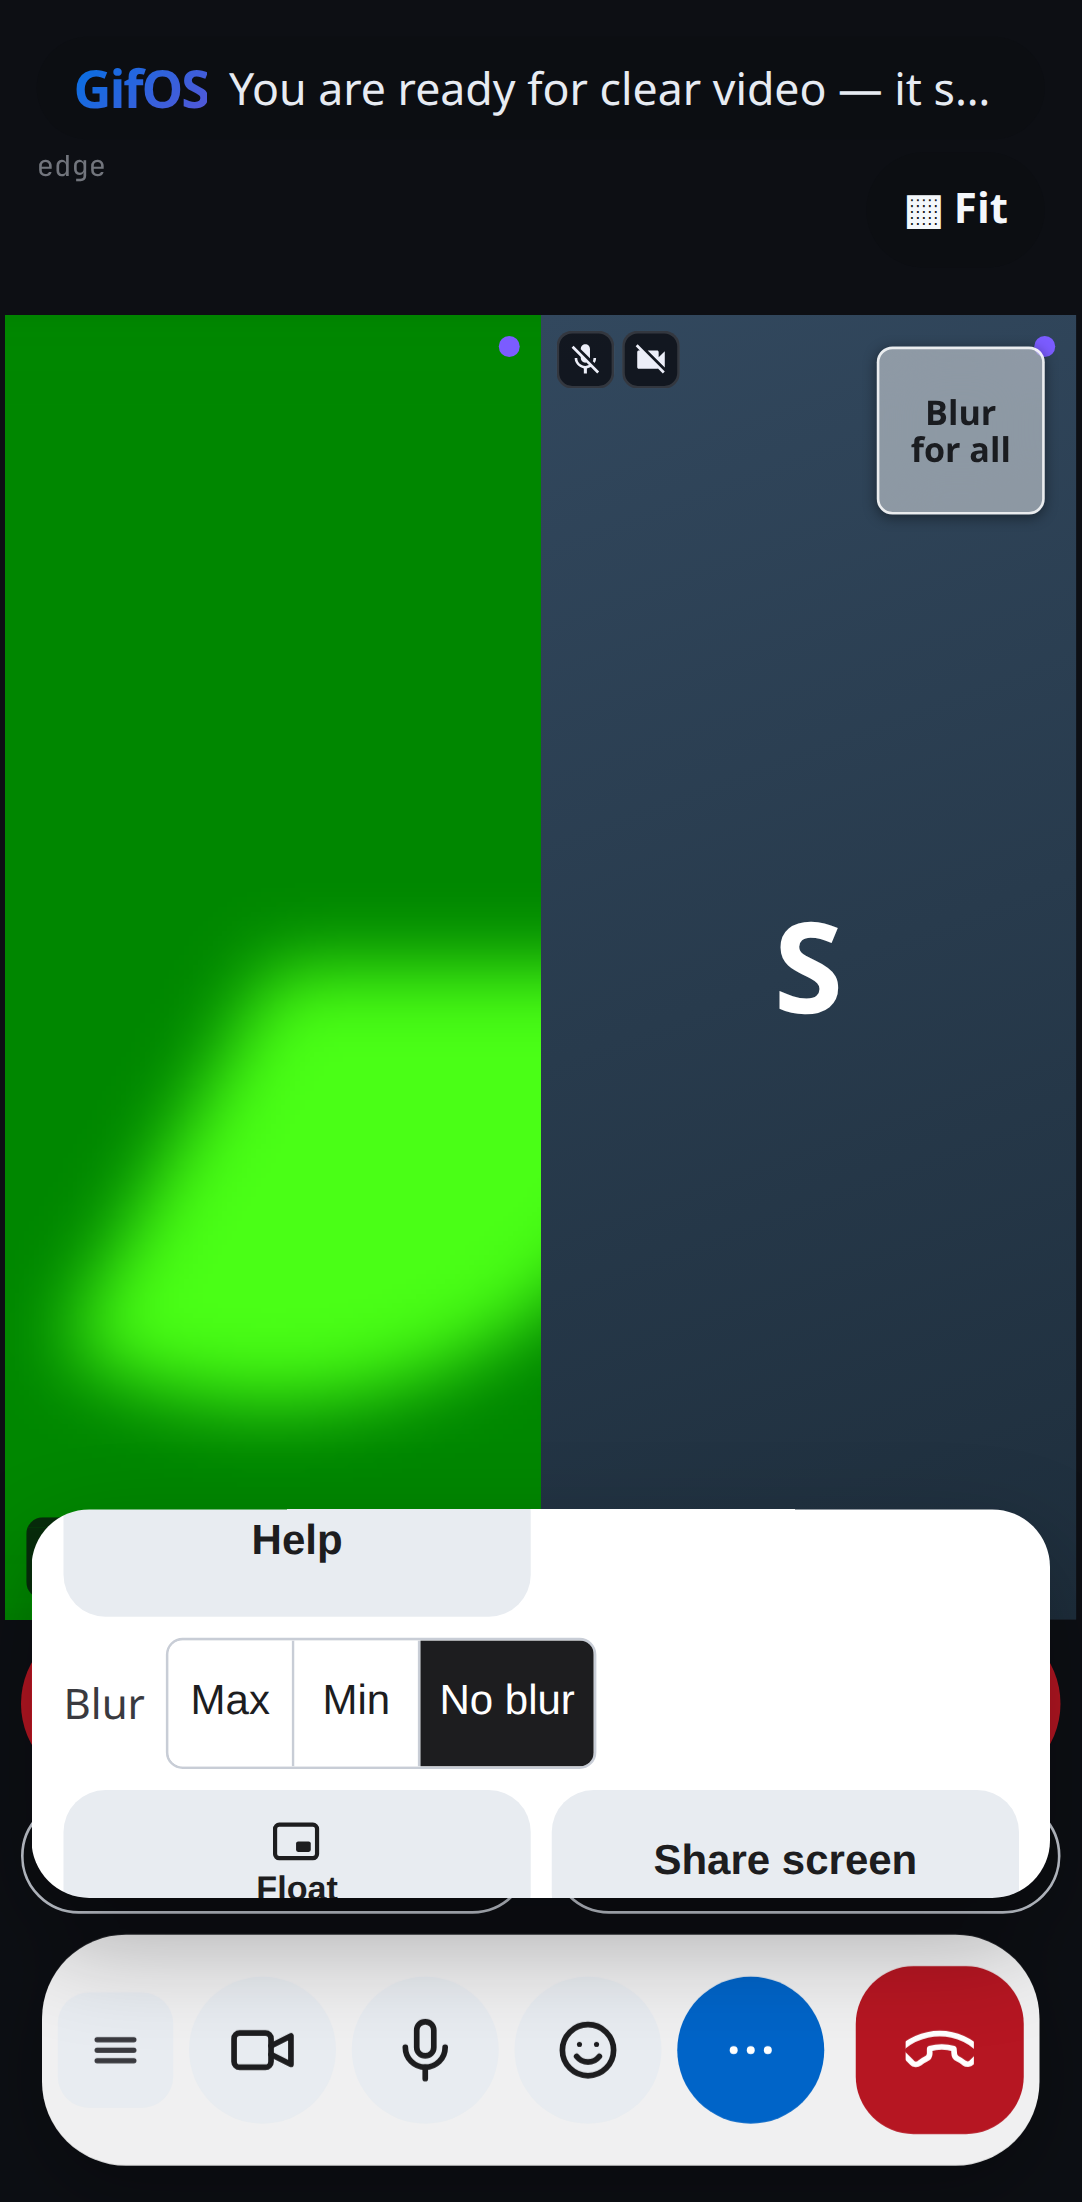
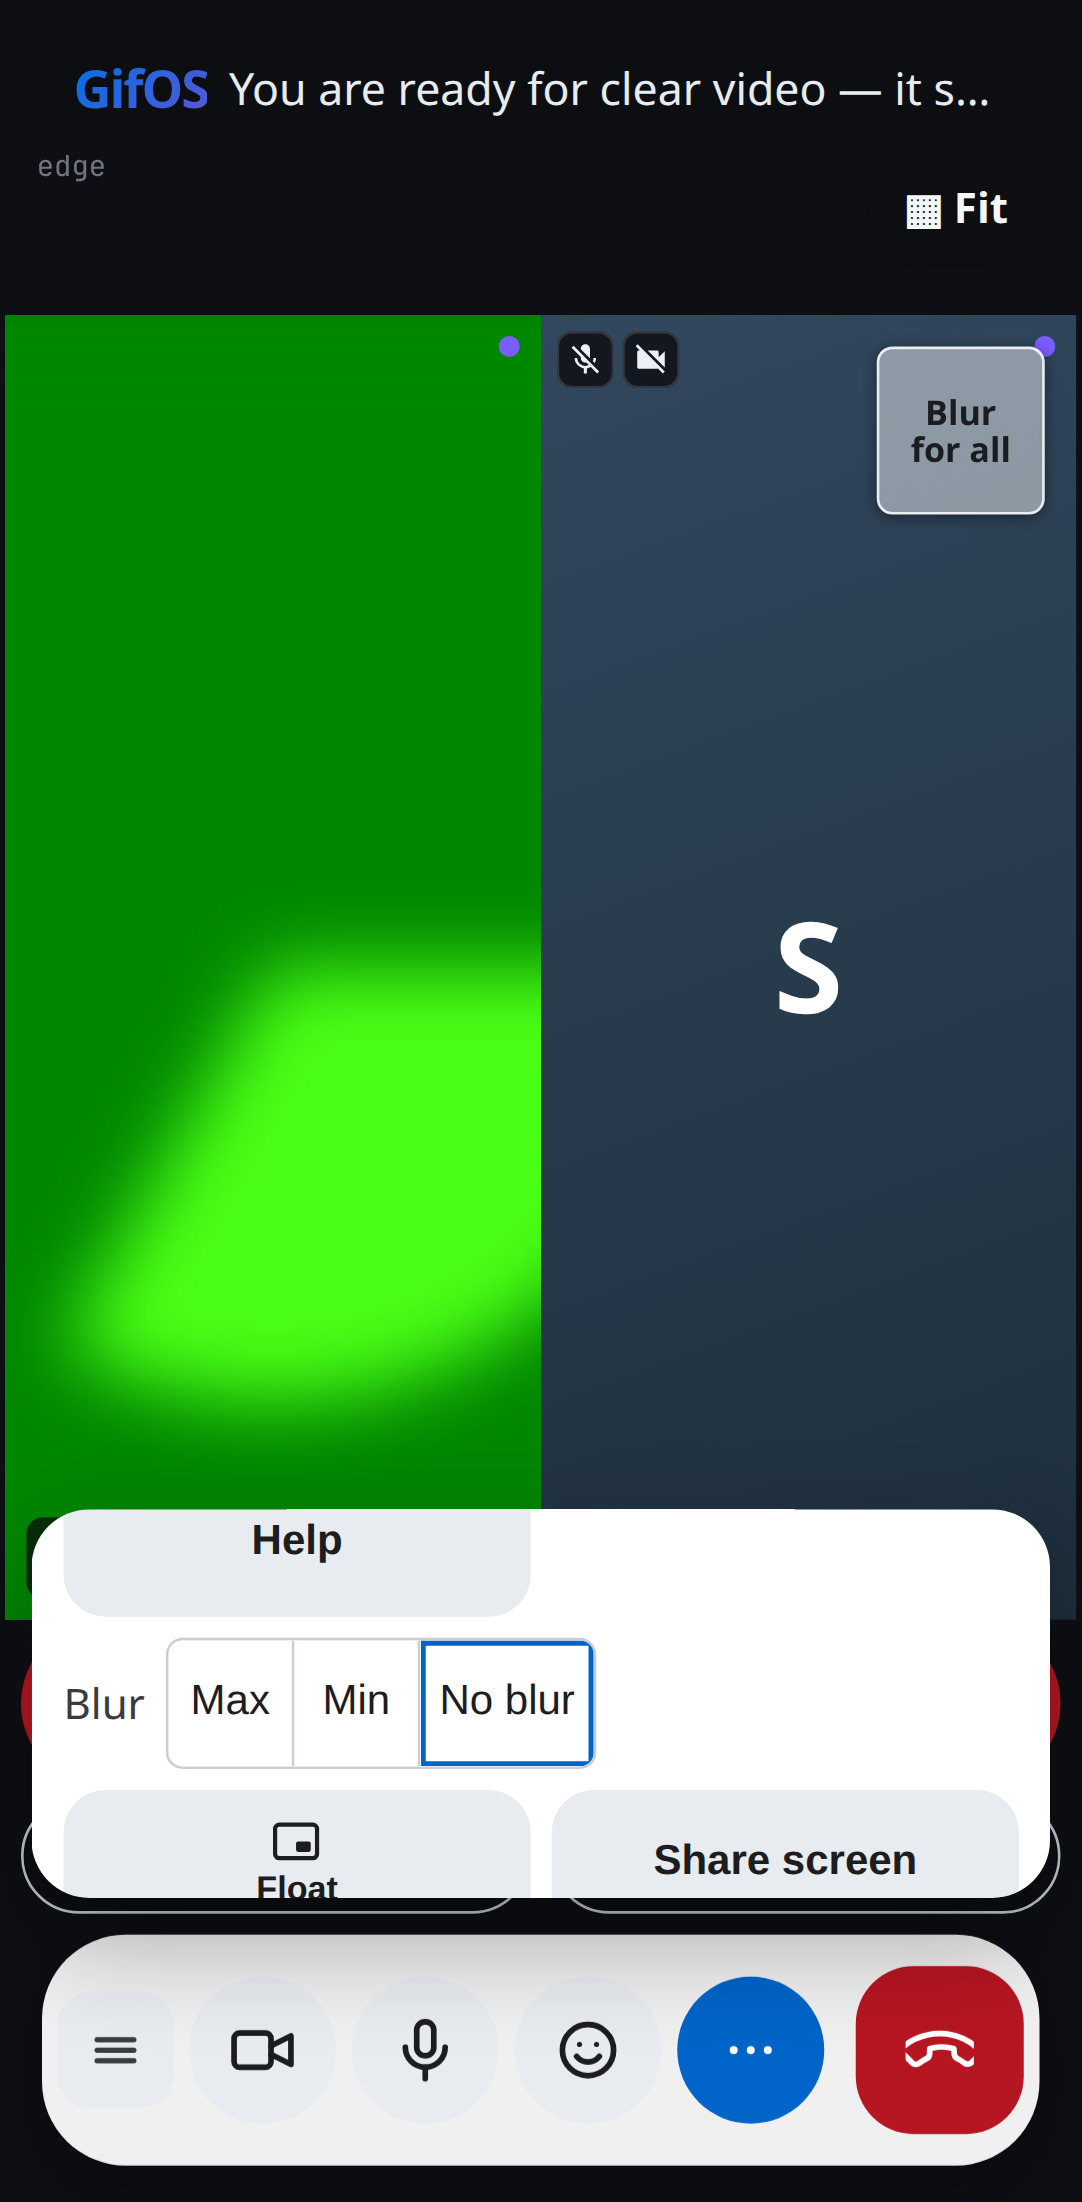
Meet: show No blur as pending until the minute holdover ends.
An away peer who has not consented stays in the roster for up to 60s, so the feed stays at Min while the header already says you are ready. No blur stays chosen, with a white fill and a blue ring, until that holdover drops and clear video starts on its own.

Changed region(s): [[0.366, 0.7411, 0.549, 0.8029]]

diff --git a/test/mobile/blur-none-delay.js b/test/mobile/blur-none-delay.js
@@ -1,0 +1,119 @@
+/*
+ * No blur looks finished while a pocketed peer still holds the room at Min.
+ * That hold lasts up to a minute (the away holdover). The header already
+ * says you are ready. After the minute, clear video starts with no second tap.
+ *
+ * Gate: NODE_PATH=/tmp/qa-pw/node_modules node test/mobile/blur-none-delay.js
+ */
+const fs = require('fs');
+const path = require('path');
+const { chromium, devices } = require('playwright');
+
+const BASE = process.env.MEET_BASE || 'http://127.0.0.1:8765';
+const SHOTS = path.join(__dirname, '..', '..', 'qa', 'mobile', 'shots');
+const ROOM = 'clear-wait';
+
+function stamp(page, ageMs) {
+  return page.evaluate((age) => {
+    window.__gifosVideo._ghostStatus('peer-sam', age, { away: true, blur: 1, camOff: false });
+  }, ageMs);
+}
+
+(async () => {
+  fs.mkdirSync(SHOTS, { recursive: true });
+  const browser = await chromium.launch({
+    headless: true,
+    args: ['--use-fake-ui-for-media-stream', '--use-fake-device-for-media-stream'],
+  });
+  const context = await browser.newContext(Object.assign({}, devices['Pixel 7'], { hasTouch: true }));
+  await context.addInitScript((room) => {
+    try {
+      localStorage.setItem('gifos_name', 'Nathan');
+      localStorage.setItem('gifos_vpw_' + room, 'sunday');
+      localStorage.setItem('gifos_vpwat_' + room, String(Date.now()));
+    } catch (e) {}
+  }, ROOM);
+  const page = await context.newPage();
+  await page.goto(BASE + '/run.html#v=' + ROOM, { waitUntil: 'domcontentloaded', timeout: 20000 });
+  await page.waitForSelector('#bartoggle', { timeout: 15000 });
+  const skip = page.locator('#nmok');
+  if (await skip.count()) await skip.tap().catch(() => {});
+  await page.waitForFunction(() => {
+    const api = window.__gifosVideo;
+    return api && api.pwState && api.pwState().pw === 'sunday';
+  }, { timeout: 8000 });
+  await page.evaluate(() => window.__gifosVideo.presentPeers([{ id: 'peer-sam', name: 'Sam' }]));
+  await stamp(page, 30000);
+  await page.waitForFunction(() => {
+    const api = window.__gifosVideo;
+    const dump = api.debugDump();
+    const sam = (dump.roster || []).some((row) => row && (row.peer === 'peer-sam' || row.name === 'Sam'));
+    return sam && dump.consent === false;
+  }, { timeout: 8000 });
+  const unmute = page.locator('#unmute');
+  if (await unmute.count() && await unmute.isVisible().catch(() => false)) await unmute.tap();
+  await page.locator('#cam').tap();
+  await page.waitForFunction(() => window.__gifosVideo.camOff() === false, { timeout: 8000 });
+  await stamp(page, 30000);
+  await page.locator('#bartoggle').tap();
+  await page.locator('#blur-min').scrollIntoViewIfNeeded();
+  await page.locator('#blur-min').tap();
+  await page.locator('#blur-none').scrollIntoViewIfNeeded();
+  await page.locator('#blur-none').tap();
+  await page.waitForTimeout(250);
+  const read = () => page.evaluate(() => {
+    const el = document.getElementById('blur-none');
+    const cs = getComputedStyle(el);
+    const api = window.__gifosVideo;
+    const dump = api.debugDump();
+    return {
+      sel: el.classList.contains('sel'),
+      wait: el.classList.contains('wait'),
+      pressed: el.getAttribute('aria-pressed'),
+      bg: cs.backgroundColor,
+      shadow: cs.boxShadow,
+      wish: api.myBlur(),
+      feed: api.blurClassOf('me'),
+      status: document.getElementById('status').textContent,
+      consent: dump.consent,
+      roster: (dump.roster || []).map((row) => row && row.peer),
+    };
+  });
+  const during = await read();
+  const shotDuring = (!during.wait) ? 'before-blur-wait-pixel-7.png' : 'after-blur-wait-pixel-7.png';
+  await page.screenshot({ path: path.join(SHOTS, shotDuring) });
+  if (during.wait) await page.locator('#blurseg').screenshot({ path: path.join(SHOTS, 'after-blur-wait-seg.png') });
+  await stamp(page, 61000);
+  await page.waitForFunction(() => {
+    const api = window.__gifosVideo;
+    const dump = api.debugDump();
+    const sam = (dump.roster || []).some((row) => row && (row.peer === 'peer-sam' || row.name === 'Sam'));
+    return !sam && api.blurClassOf('me') === 0;
+  }, { timeout: 8000 }).catch(() => {});
+  await page.waitForTimeout(400);
+  const later = await read();
+  if (later.feed === 0 && !later.wait && later.sel) {
+    await page.screenshot({ path: path.join(SHOTS, 'after-blur-clear-pixel-7.png') });
+    await page.locator('#blurseg').screenshot({ path: path.join(SHOTS, 'after-blur-clear-seg.png') });
+  }
+  const bad = [];
+  if (during.status.indexOf('ready for clear video') < 0) bad.push('header "' + during.status + '"');
+  if (during.wish !== 0) bad.push('choice ' + during.wish);
+  if (during.feed !== 1) bad.push('feed during the minute is ' + during.feed);
+  if (during.consent !== false) bad.push('room already consented during the holdover');
+  if (!during.wait) bad.push('No blur has no pending state while the header says ready and the feed is still Min (sel ' + during.sel + ')');
+  if (during.wait && during.bg !== 'rgb(255, 255, 255)') bad.push('pending No blur fill is ' + during.bg);
+  if (during.wait && during.shadow.indexOf('rgb(0, 100, 200)') < 0) bad.push('pending No blur has no blue ring (' + during.shadow + ')');
+  if (later.feed !== 0) bad.push('after the minute the feed is still ' + later.feed + ' roster ' + JSON.stringify(later.roster));
+  if (later.wait) bad.push('No blur stayed pending after the room cleared');
+  if (later.feed === 0 && !later.sel) bad.push('clear video started and No blur is not the selected choice');
+  if (later.feed === 0 && later.bg !== 'rgb(29, 29, 31)') bad.push('clear No blur fill is ' + later.bg);
+  await context.close();
+  await browser.close();
+  if (bad.length) {
+    console.error('FAIL ' + bad.join('; '));
+    console.error(JSON.stringify({ during: during, later: later }));
+    process.exit(1);
+  }
+  console.log('PASS blur none delay');
+})().catch((e) => { console.error(e); process.exit(1); });

diff --git a/run.html b/run.html
@@ -1512,6 +1512,11 @@ requestAnimationFrame(chk);setTimeout(show,1500);})();</script>
   .bar:not(.collapsed) .barmore .seg { min-height: 48px; min-width: 48px; color: #1d1d1f; background: #fff; }
   .bar:not(.collapsed) .barmore .seg.sel,
   .bar:not(.collapsed) .barmore .seg[aria-pressed="true"] { background: #1d1d1f; color: #fff; }
+  /* Chosen, but the room is still at Min. Not the solid "clear video is on" fill. */
+  .bar:not(.collapsed) .barmore .seg.wait,
+  .bar:not(.collapsed) .barmore .seg.wait[aria-pressed="true"] {
+    background: #fff; color: #1d1d1f; box-shadow: inset 0 0 0 2px #0064c8;
+  }
   .bar .barmore .blab { display: block; font-size: 13px; font-weight: 700; margin-top: 2px; line-height: 1.1; }
   .reacttray { position: absolute; z-index: 23; left: 50%; bottom: 122px; transform: translateX(-50%);
     display: flex; gap: 8px; background: rgba(255,255,255,.96); border-radius: 20px; padding: 10px;
@@ -9344,6 +9349,14 @@ requestAnimationFrame(chk);setTimeout(show,1500);})();</script>
       }
       for (const [pid] of statusOf) if (pid !== myId && stHold(pid) && notTomb(pid)) ids.add(pid);
       rosterIds = Array.from(ids);
+      // A pocketed phone blocks clear video for up to a minute, then drops
+      // out of this set. Repaint then, or No blur stays pending after the
+      // room has already gone clear.
+      const rosterSig = rosterIds.slice().sort().join('\n');
+      if (rosterSig !== renderFromOcc.rosterSig) {
+        renderFromOcc.rosterSig = rosterSig;
+        try { reactRoomState(); } catch (e) {}
+      }
       for (const pid of rosterIds) {
         // A peer carrying MY device id is a stale session of my own device —
         // never a real guest. Drop it instead of drawing a second "me" tile.
@@ -21350,16 +21363,30 @@ requestAnimationFrame(chk);setTimeout(show,1500);})();</script>
         const inCall = !(lob && lob.classList.contains('show'));
         showcamBtn.hidden = !inCall || muted || !myStatus.camOff;
       }
-      // The filled segment is the choice this person made. The feed can
-      // still be Min: a password room stays there until everyone is ready,
-      // and a moderator block stays on the pixels. Painting that feed level
-      // here snapped No blur back to Min the moment it was tapped, while the
-      // header said you were ready for clear video.
+      // The filled segment is the choice this person made. While a password
+      // room is still at Min (someone is not ready, including a pocketed
+      // phone held for up to a minute), No blur stays chosen but pending.
+      // Painting the feed level snapped it back to Min. Painting a solid
+      // selection made it look finished while the header said you were only
+      // ready. The holdover expiring is what used to make No blur "start
+      // working" with no second tap.
       const lvl = blurLevel(myStatus.blur);
+      let feed = lvl;
+      try {
+        if (typeof blurLevelFor === 'function') {
+          const eff = blurLevelFor('me');
+          if (typeof eff === 'number') feed = blurLevel(eff);
+        }
+      } catch (e) {}
+      const pending = lvl === 0 && feed > 0;
       for (const seg of blurSegs) {
         const segOn = +seg.dataset.blur === lvl;
-        seg.classList.toggle('sel', segOn);
+        const wait = pending && segOn;
+        seg.classList.toggle('wait', wait);
+        seg.classList.toggle('sel', segOn && !wait);
         seg.setAttribute('aria-pressed', segOn ? 'true' : 'false');
+        if (wait) seg.title = 'Chosen. Clear video shows when everyone here is ready.';
+        else if (seg.title === 'Chosen. Clear video shows when everyone here is ready.') seg.title = '';
       }
       paintShare();
     }
@@ -24624,7 +24651,17 @@ requestAnimationFrame(chk);setTimeout(show,1500);})();</script>
       // departure verdict to miss. Nothing in a 4-browser room can age an entry
       // past the holdover on demand, so hand the sweep exactly the shape it
       // exists for, plus a FRESH one it must leave alone.
-      _ghostStatus: (id, ageMs) => { const t = Date.now() - (ageMs | 0); statusOf.set(id, { muted: true, camOff: true, blur: 0, at: t, rx: t }); return statusOf.has(id); },
+      _ghostStatus: (id, ageMs, extra) => {
+        const t = Date.now() - (ageMs | 0);
+        const st = { muted: true, camOff: true, blur: 0, at: t, rx: t };
+        if (extra && typeof extra === 'object') {
+          if (extra.away) st.away = true;
+          if (typeof extra.blur === 'number') st.blur = extra.blur;
+          if (extra.camOff === false) st.camOff = false;
+        }
+        statusOf.set(id, st);
+        return statusOf.has(id);
+      },
       // SCALE FAULT INJECTION (scale audit V2/V3, test/browser/e2e-status-map.js):
       // stuff `statusOf` with N synthetic strangers, exactly as a room-wide
       // status flood at scale would. Nothing else is touched — the point is to

diff --git a/test/mobile/blur-none.js b/test/mobile/blur-none.js
@@ -76,11 +76,14 @@ const ROOM = 'clear-ready';
   await page.locator('#blur-none').tap();
   await page.waitForTimeout(200);
   const info = await page.evaluate(() => {
-    const on = (id) => document.getElementById(id).classList.contains('sel');
+    const el = (id) => document.getElementById(id);
+    const on = (id) => el(id).classList.contains('sel');
     const api = window.__gifosVideo;
+    const none = el('blur-none');
     return {
       min: on('blur-min'),
-      none: on('blur-none'),
+      none: none.classList.contains('sel') || none.classList.contains('wait'),
+      pending: none.classList.contains('wait'),
       max: on('blur-max'),
       wish: api.myBlur(),
       feed: api.blurClassOf('me'),
@@ -100,6 +103,7 @@ const ROOM = 'clear-ready';
   if (info.status.indexOf('ready for clear video') < 0) bad.push('header "' + info.status + '"');
   if (info.feed !== 1) bad.push('feed blur ' + info.feed + ' (room should stay Min until Sam is ready)');
   if (!info.none || info.min) bad.push('No blur did not stay selected (min ' + info.min + ', none ' + info.none + ')');
+  if (info.feed > 0 && !info.pending) bad.push('No blur looks finished while the feed is still Min');
   const shot = bad.length ? 'before-blur-none-pixel-7.png' : 'after-blur-none-pixel-7.png';
   await page.screenshot({ path: path.join(SHOTS, shot) });
   await context.close();

diff --git a/QUIRKS.md b/QUIRKS.md
@@ -339,13 +339,19 @@ Repro: `test/mobile/header-invite.js`. On a phone, alone, the header is the room
 
 Before: `qa/mobile/shots/before-header-invite-iphone-se.png`. After: `qa/mobile/shots/after-header-invite-iphone-se.png`.
 
-### 42. No blur snapped back to Min
+### 42. No blur snapped back to Min, then started on its own after a minute
 
 In a password meeting the header said "You are ready for clear video…" and Min stayed selected. The tap landed on No blur. The button was not disabled. The choice was saved as 0. The segment then painted the feed level, and the room rule keeps that feed at Min until everyone is ready, so the control jumped back to Min.
 
-Repro: `test/mobile/blur-none.js`. It failed (`No blur did not stay selected (min true, none false)`, feed blur 1, header "You are ready for clear video — it shows when everyone here is (camera on, No blur: 1 of 2)."), then passed. No blur stays selected. The feed stays Min until Sam is ready. Gate: `NODE_PATH=/tmp/qa-pw/node_modules node test/mobile/blur-none.js`.
+Repro: `test/mobile/blur-none.js`. It failed (`No blur did not stay selected (min true, none false)`, feed blur 1, header "You are ready for clear video — it shows when everyone here is (camera on, No blur: 1 of 2)."), then passed. The choice stays on No blur. The feed stays Min until the room is ready. Gate: `NODE_PATH=/tmp/qa-pw/node_modules node test/mobile/blur-none.js`.
 
 Before: `qa/mobile/shots/before-blur-none-pixel-7.png`. After: `qa/mobile/shots/after-blur-none-pixel-7.png`.
+
+About a minute later the same tap started working with no second press. There is no segmentation-model fetch on this path. Blur is the canvas pipe. The minute is `HOLDOVER_MS` (60s): an away or still-connected peer who has not consented stays in the roster, so the feed stays at Min while the header already says you are ready. When that status ages out, the peer drops, the room consents, and clear video starts on its own.
+
+Repro: `test/mobile/blur-none-delay.js`. Sam is pocketed (away, 30s old, blur 1, camera on). The header is the ready sentence, the choice is 0, and the feed is still Min. No blur is pending: white, with a blue ring, not the solid black of clear video. Stamping that same status to 61s drops Sam. The feed goes clear and No blur becomes the solid choice, with no second tap. The failing run had no pending class (`sel true`, `wait false`) during the minute, then `feed 0` after it. Gate: `NODE_PATH=/tmp/qa-pw/node_modules node test/mobile/blur-none-delay.js`.
+
+Before: `qa/mobile/shots/before-blur-wait-pixel-7.png`. During the minute: `qa/mobile/shots/after-blur-wait-pixel-7.png` and `qa/mobile/shots/after-blur-wait-seg.png`. After the minute: `qa/mobile/shots/after-blur-clear-pixel-7.png` and `qa/mobile/shots/after-blur-clear-seg.png`.
 
 ## Open
 
